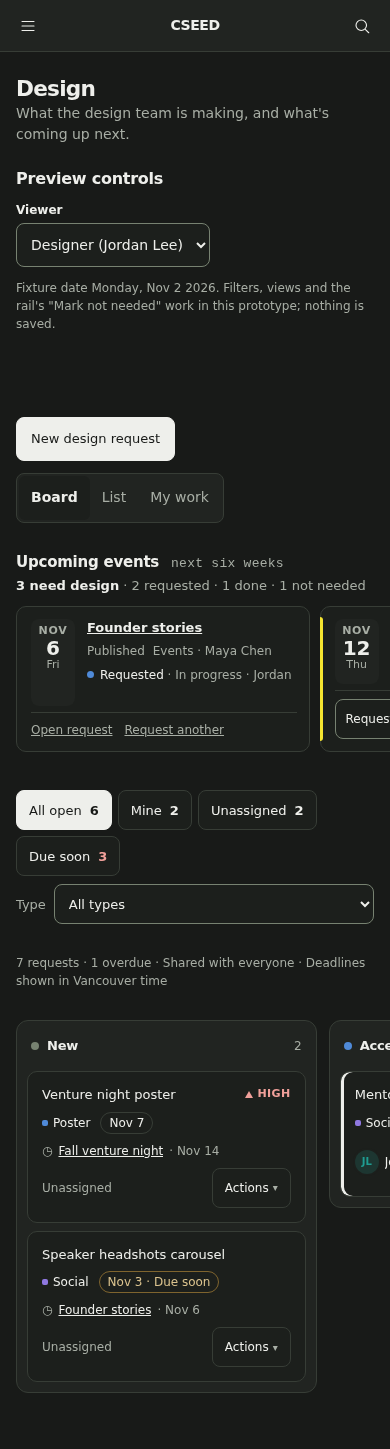
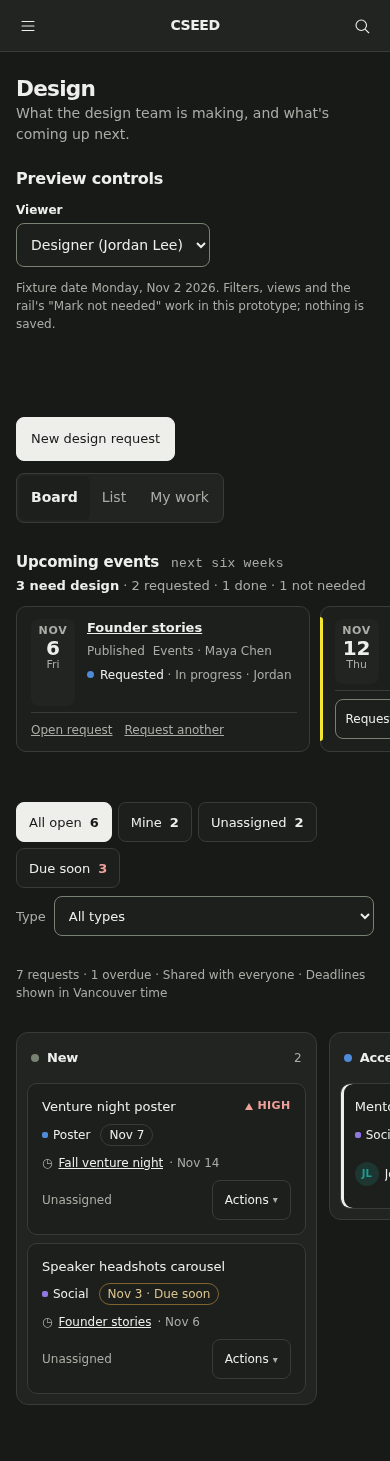
design: rail spacing; V0.4 screenshots (board, list, My work, editor toggle at 1440/390, light/dark)

diff --git a/web/src/styles/design-requests.css b/web/src/styles/design-requests.css
@@ -102,7 +102,7 @@
 .design-meta {margin:0;}
 
 /* Upcoming events rail */
-.design-rail {display:grid;gap:10px;min-width:0;}
+.design-rail {display:grid;gap:10px;min-width:0;margin-bottom:12px;}
 .design-rail-head {display:flex;flex-wrap:wrap;align-items:baseline;justify-content:space-between;gap:4px 16px;}
 .design-rail-title {display:flex;flex-wrap:wrap;align-items:baseline;gap:4px 12px;margin:0;font-size:15px;font-weight:600;}
 .design-rail-title .brand-eyebrow {font-weight:400;color:var(--muted);}
